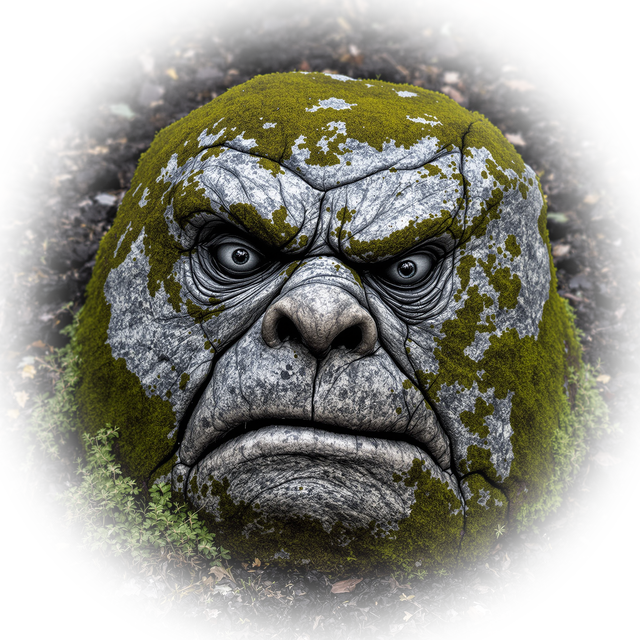
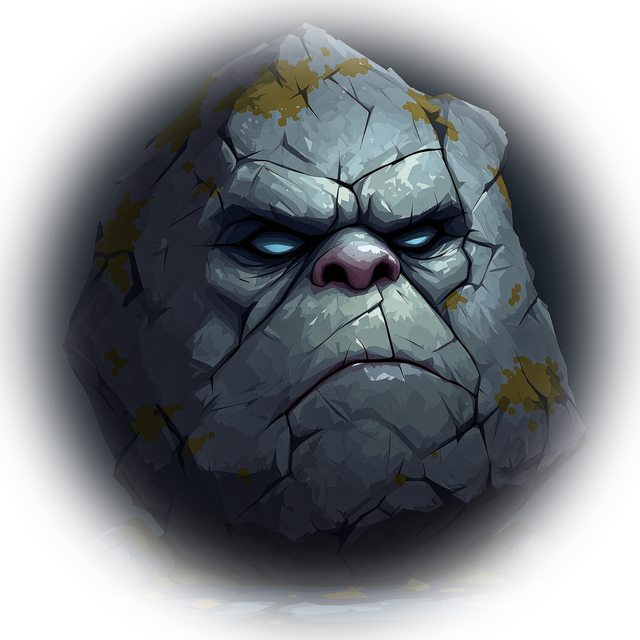
Troll rockface: game-art batch + use #1 (for in-game review)
Regenerated the Magic Mushroom unlock rockface as painterly game-art boulders
matching the in-game rock sprites (rockMossy/rockform), replacing the photoreal
batch. Promoted batch-2 #1 to assets/rockface/troll.png so it can be judged
in-game; faces may still be tuned subtler after review. Rebuilt dist.

Claude-Session: https://claude.ai/code/session_01CgGUkw5aUKtUAGfWeZXo2s

diff --git a/dist/artifact.html b/dist/artifact.html
@@ -1484,8 +1484,8 @@
 <div id="ui"></div>
 <script>
 'use strict';
-window.__ASSET_VER = "1v7kb99";
-globalThis.__BUILD__ = "local 07-24 18:37";
+window.__ASSET_VER = "cp55mg";
+globalThis.__BUILD__ = "local 07-24 18:45";
 
 // ===================== src/config.js =====================
 const __m_config = (function () {

diff --git a/dist/index.html b/dist/index.html
@@ -1490,8 +1490,8 @@
 <div id="ui"></div>
 <script>
 'use strict';
-window.__ASSET_VER = "1v7kb99";
-globalThis.__BUILD__ = "local 07-24 18:37";
+window.__ASSET_VER = "cp55mg";
+globalThis.__BUILD__ = "local 07-24 18:45";
 
 // ===================== src/config.js =====================
 const __m_config = (function () {

diff --git a/scripts/gen_troll_rock.py b/scripts/gen_troll_rock.py
@@ -1,11 +1,11 @@
 #!/usr/bin/env python3
 # Five "troll rockface" sprite options for the Magic Mushroom (Psilocybe cubensis)
-# level-1 UNLOCK object. A natural boulder whose cracks/hollows happen to suggest a
-# subtle troll face (Nordic folklore pareidolia rock). FLUX 1.1 PRO ULTRA + raw
-# (most photoreal). Output -> assets/rock_options/troll-r<n>.jpg (raw) +
-# troll-r<n>.png (soft-edged circular alpha cutout, ready to drop into soil) +
-# a labelled contact sheet. Owner picks the winner; it gets promoted to
-# assets/rockface/troll.png separately.
+# level-1 UNLOCK object. BATCH 2 (owner feedback): the first batch was photoreal with
+# an OBVIOUS sculpted face. Now match the IN-GAME rock sprites (painterly dark-charcoal
+# game-art boulders w/ moss, see assets/rockMossy.png / rockform*.png) and make the face
+# VERY SUBTLE — mostly an ordinary boulder that only faintly suggests a face.
+# FLUX 1.1 PRO ULTRA, raw:false (stylised, not photoreal). Output ->
+# assets/rock_options/troll-r<n>.jpg + troll-r<n>.png (soft cutout) + a contact sheet.
 import os, sys, json, time, subprocess, tempfile
 from pathlib import Path
 from PIL import Image, ImageDraw, ImageFont, ImageFilter
@@ -18,28 +18,30 @@ TOKEN = os.environ.get("REPLICATE_API_TOKEN", "").strip()
 LOG = os.environ.get("ROCKLOG", "/tmp/troll_rock.log")
 MODEL = "black-forest-labs/flux-1.1-pro-ultra"
 
-STYLE = ("professional macro nature photography, shot on a full-frame DSLR, natural "
-         "soft daylight, realistic shallow depth of field, true-to-life stone and moss "
-         "texture, crisp fine detail, National Geographic style, photorealistic, no "
-         "illustration, no CGI, no carving, no text, no watermark, no border, no people")
+# Match the in-game rock sprites: painterly game art, dark charcoal faceted stone + moss.
+STYLE = ("2D hand-painted game-art rock sprite, painterly semi-realistic fungal-fantasy "
+         "illustration (NOT a photograph, no photorealism), a chunky dark charcoal-grey "
+         "angular boulder with crisp faceted planes and chipped edges, patches of muted "
+         "olive-green and gold moss and lichen, cool near-black deep-earth palette with "
+         "soft ambient shadow, clean simple side-view sprite that matches a 2D "
+         "side-scroller game boulder, flat plain very dark near-black background, "
+         "centered, no text, no watermark, no border, no people, no photograph")
 
-# The pareidolia boulder: a natural rock that merely SEEMS to have a face in it.
-SUBJECT = ("a single weathered rounded granite boulder resting on dark damp woodland "
-           "soil, patched with green and grey moss and lichen, the rock's own natural "
-           "cracks shadowed hollows and bumps happen to form the subtle suggestion of "
-           "a grumpy old troll's face - two deep shadowed hollows like sunken eyes, a "
-           "jutting weathered ridge like a broad nose, a long horizontal crevice like a "
-           "downturned mouth - an ancient Nordic folklore troll stone, natural "
-           "pareidolia, the face is subtle and accidental not sculpted, the mossy "
-           "boulder is the single clear hero of the image, centered, plain dark "
-           "out-of-focus earthy background")
+# A mostly-ordinary boulder whose shadows only FAINTLY hint at a face (subtle pareidolia).
+SUBJECT = ("a single chunky weathered angular grey boulder, first and foremost an "
+           "ordinary mossy game rock; its natural facets and pooled shadow hollows only "
+           "VERY FAINTLY and accidentally suggest a sleeping troll's face — the barest "
+           "hint of two shadowed eye hollows and a blunt nose ridge that most players "
+           "would miss at a glance. It is NOT a carved or sculpted face, there are no "
+           "drawn eyes or mouth, only soft accidental shadow shapes; the boulder must "
+           "read as a normal rock, the face extremely subtle and easy to overlook")
 
 VARIANTS = [
-    ("eye-level straight-on, the face reads clearly head-on, even overcast light", 4100),
-    ("slight three-quarter angle, warm low side light raking across the stone to deepen the eye hollows", 4270),
-    ("more moss and lichen creeping like eyebrows and a beard around the face, soft misty forest light", 4440),
-    ("a craggier angular granite boulder, harder shadows carving a sterner troll scowl, cool blue-grey daylight", 4610),
-    ("a rounder smoother river boulder, gentler kinder troll face, dappled golden woodland light", 4780),
+    ("even flat game lighting, the hint of a face only in the upper facets, lots of moss", 5100),
+    ("gentle top-left light, shallow shadow hollows barely reading as eyes, mossy cap", 5270),
+    ("cool blue-grey shading, a craggier angular boulder, the face almost imperceptible", 5440),
+    ("a rounder smoother boulder, soft rounded facets, only the faintest sleepy face", 5610),
+    ("more moss and lichen creeping over the stone, the face nearly hidden under it", 5780),
 ]
 
 def log(m):
@@ -47,17 +49,15 @@ def log(m):
     print(m, flush=True)
 
 def curl_json(args):
-    r = subprocess.run(["curl","-sS","--max-time","120","--cacert",CA]+args,
-                       capture_output=True, text=True)
+    r = subprocess.run(["curl","-sS","--max-time","120","--cacert",CA]+args, capture_output=True, text=True)
     try: return json.loads(r.stdout)
     except Exception: return {"_raw": r.stdout[:200]}
 
 def create(prompt, seed):
-    body = json.dumps({"input":{"prompt":prompt,"aspect_ratio":"1:1","raw":True,
+    body = json.dumps({"input":{"prompt":prompt,"aspect_ratio":"1:1","raw":False,
                                 "output_format":"png","safety_tolerance":6,"seed":seed}})
     return curl_json(["-H",f"Authorization: Bearer {TOKEN}","-H","Content-Type: application/json",
-                      "-d",body,
-                      f"https://api.replicate.com/v1/models/{MODEL}/predictions"])
+                      "-d",body, f"https://api.replicate.com/v1/models/{MODEL}/predictions"])
 
 def poll(geturl):
     for _ in range(150):
@@ -72,7 +72,6 @@ def save_png(url, dest, size=640):
     tmp = tempfile.mktemp(suffix=".png")
     subprocess.run(["curl","-sS","--max-time","150","--cacert",CA,"-o",tmp,url], check=True)
     im = Image.open(tmp).convert("RGB")
-    # square center-crop then downscale
     s = min(im.width, im.height)
     im = im.crop(((im.width-s)//2, (im.height-s)//2, (im.width-s)//2+s, (im.height-s)//2+s))
     im = im.resize((size, size), Image.LANCZOS)
@@ -80,12 +79,9 @@ def save_png(url, dest, size=640):
     return im
 
 def soft_cutout(im, dest):
-    """Radial alpha vignette -> a soft-edged circular sprite that drops into soil
-    with no hard rectangle edge (final in-game glow is drawn separately)."""
     size = im.size[0]
     mask = Image.new("L", (size, size), 0)
     d = ImageDraw.Draw(mask)
-    # opaque out to ~44% radius, fading to 0 by ~50%
     d.ellipse([size*0.06, size*0.06, size*0.94, size*0.94], fill=255)
     mask = mask.filter(ImageFilter.GaussianBlur(size*0.045))
     out = im.convert("RGBA"); out.putalpha(mask)
@@ -94,7 +90,7 @@ def soft_cutout(im, dest):
 def gen_one(n, variant, seed):
     raw = OUTDIR / f"troll-r{n}.jpg"
     png = OUTDIR / f"troll-r{n}.png"
-    if png.exists(): log(f"skip troll-r{n} (exists)"); return png
+    full = OUTDIR / f"_full-troll-r{n}.png"
     prompt = f"{SUBJECT}, {variant}, {STYLE}"
     for attempt in range(4):
         d = create(prompt, seed + attempt*911)
@@ -105,8 +101,8 @@ def gen_one(n, variant, seed):
         out = r.get("output"); url = out[0] if isinstance(out,list) and out else (out if isinstance(out,str) else "")
         if r.get("status")=="succeeded" and url:
             try:
-                im = save_png(url, str(raw).replace('.jpg','.png').replace('troll-r','_full-troll-r'))
-                Image.open(str(raw).replace('.jpg','.png').replace('troll-r','_full-troll-r')).convert("RGB").save(raw,"JPEG",quality=90)
+                im = save_png(url, str(full))
+                im.save(raw, "JPEG", quality=90)
                 soft_cutout(im, str(png))
                 log(f"OK troll-r{n} {png.stat().st_size//1024}KB"); return png
             except Exception as e: log(f"troll-r{n}: dl error {e}")
@@ -118,8 +114,7 @@ def label(im, text):
     d = ImageDraw.Draw(im)
     try: font = ImageFont.truetype("/usr/share/fonts/truetype/dejavu/DejaVuSans-Bold.ttf", 24)
     except Exception: font = ImageFont.load_default()
-    d.rectangle([0,0,min(im.width, 12+len(text)*14), 36], fill=(0,0,0))
-    d.text((8,5), text, fill=(255,255,255), font=font)
+    d.rectangle([0,0,min(im.width, 12+len(text)*14), 36], fill=(0,0,0)); d.text((8,5), text, fill=(255,255,255), font=font)
     return im
 
 def sheet():
@@ -127,18 +122,21 @@ def sheet():
     for n in range(1,6):
         p = OUTDIR / f"troll-r{n}.jpg"
         if not p.exists(): continue
-        im = Image.open(p).convert("RGB")
-        cw = 340; im = im.resize((cw, round(im.height*cw/im.width)), Image.LANCZOS)
+        im = Image.open(p).convert("RGB"); cw = 340; im = im.resize((cw, round(im.height*cw/im.width)), Image.LANCZOS)
         cells.append(label(im, f"ROCK #{n}"))
     if not cells: return None
-    ch = max(c.height for c in cells); cw = 340
-    per = min(len(cells), 5)
+    ch = max(c.height for c in cells); cw = 340; per = min(len(cells), 5)
     sh = Image.new("RGB", (cw*per+6*(per+1), ch+12), (18,18,20))
     for i,c in enumerate(cells): sh.paste(c, (6+i*(cw+6), 6))
     out = OUTDIR / "_sheet_troll.png"; sh.save(out, "PNG"); log(f"SHEET -> {out}"); return out
 
 def main():
     if not TOKEN: log("NO TOKEN"); sys.exit(1)
+    # overwrite the rejected batch
+    for n in range(1,6):
+        for ext in ('jpg','png'):
+            p = OUTDIR / f"troll-r{n}.{ext}"
+            if p.exists(): p.unlink()
     for n,(variant,seed) in enumerate(VARIANTS, start=1):
         gen_one(n, variant, seed); time.sleep(2)
     sheet()
